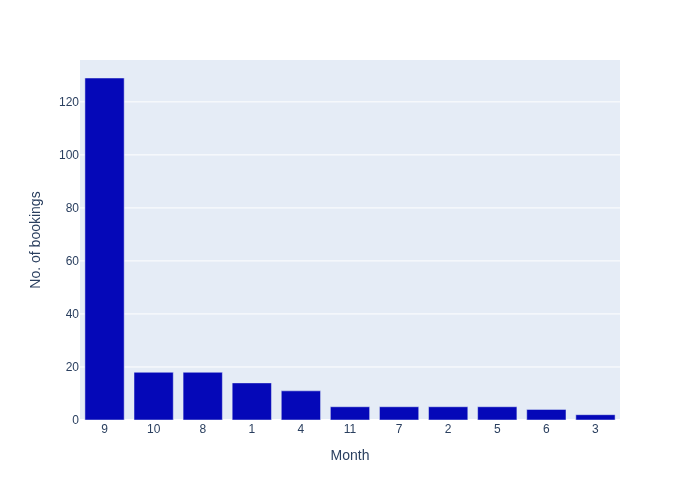
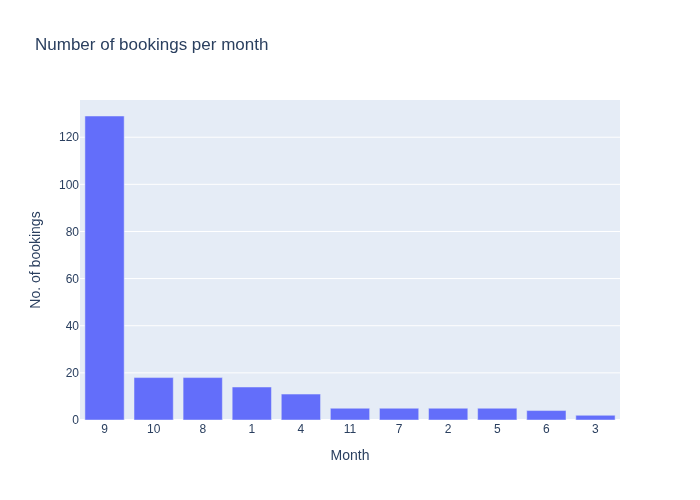
changed color schemes for plots

Changed region(s): [[0.06, 0.06, 0.9, 0.84], [0.03, 0.39, 0.06, 0.63]]

diff --git a/dash_app.py b/dash_app.py
@@ -117,15 +117,15 @@ travel_agents_and_no_bookings_dataframe["Travel Agent ID"] = travel_agents_and_n
     "Travel Agent ID"].astype(str)
 # TAKEN FROM START 18
 travel_agents_and_no_bookings_dataframe.loc[
-    travel_agents_and_no_bookings_dataframe["No. of bookings"] <= 5, "Travel Agent ID"] = "Other TAs"
+    travel_agents_and_no_bookings_dataframe["No. of bookings"] <= 10, "Travel Agent ID"] = "Other TAs combined"
 # TAKEN FROM END 18
 # TAKEN FROM START 20
 sum_bookings_other_tas = travel_agents_and_no_bookings_dataframe.loc[
-    travel_agents_and_no_bookings_dataframe["Travel Agent ID"] == "Other TAs", "No. of bookings"].sum()
+    travel_agents_and_no_bookings_dataframe["Travel Agent ID"] == "Other TAs combined", "No. of bookings"].sum()
 # TAKEN FROM END 20
 travel_agents_and_no_bookings_dataframe.loc[
     travel_agents_and_no_bookings_dataframe[
-        "Travel Agent ID"] == "Other TAs", "No. of bookings"] = sum_bookings_other_tas
+        "Travel Agent ID"] == "Other TAs combined", "No. of bookings"] = sum_bookings_other_tas
 
 travel_agents_and_no_bookings_dataframe.drop_duplicates(inplace=True, keep="first")
 """
@@ -178,9 +178,10 @@ plt.savefig("assets/shap_values_beeswarm_plot.png")
 current_fig = px.pie(data_frame=travel_agents_and_no_bookings_dataframe,
                      values=travel_agents_and_no_bookings_dataframe["No. of bookings"],
                      names=travel_agents_and_no_bookings_dataframe["Travel Agent ID"],
-                     color_discrete_sequence=px.colors.sequential.Plotly3)
+                     title="Travel Agent (TA) IDs and percentages of bookings made with their help")
 # TAKEN FROM END 18
 # TAKEN FROM START 19
+current_fig
 current_fig.write_image("assets/travel_agents_and_no_bookings_pie_plot.png")
 # TAKEN FROM END 19
 
@@ -201,7 +202,7 @@ no_bookings_per_month_dataframe = no_bookings_per_month_dataframe.drop(
 current_fig = px.bar(data_frame=no_bookings_per_month_dataframe,
                      y=no_bookings_per_month_dataframe["No. of bookings"],
                      x=no_bookings_per_month_dataframe["Month"],
-                     color_discrete_sequence=px.colors.sequential.Plotly3)
+                     title="Number of bookings per month")
 # TAKEN FROM END 23
 # TAKEN FROM START 19
 current_fig.write_image("assets/no_bookings_per_month_bar_plot.png")
